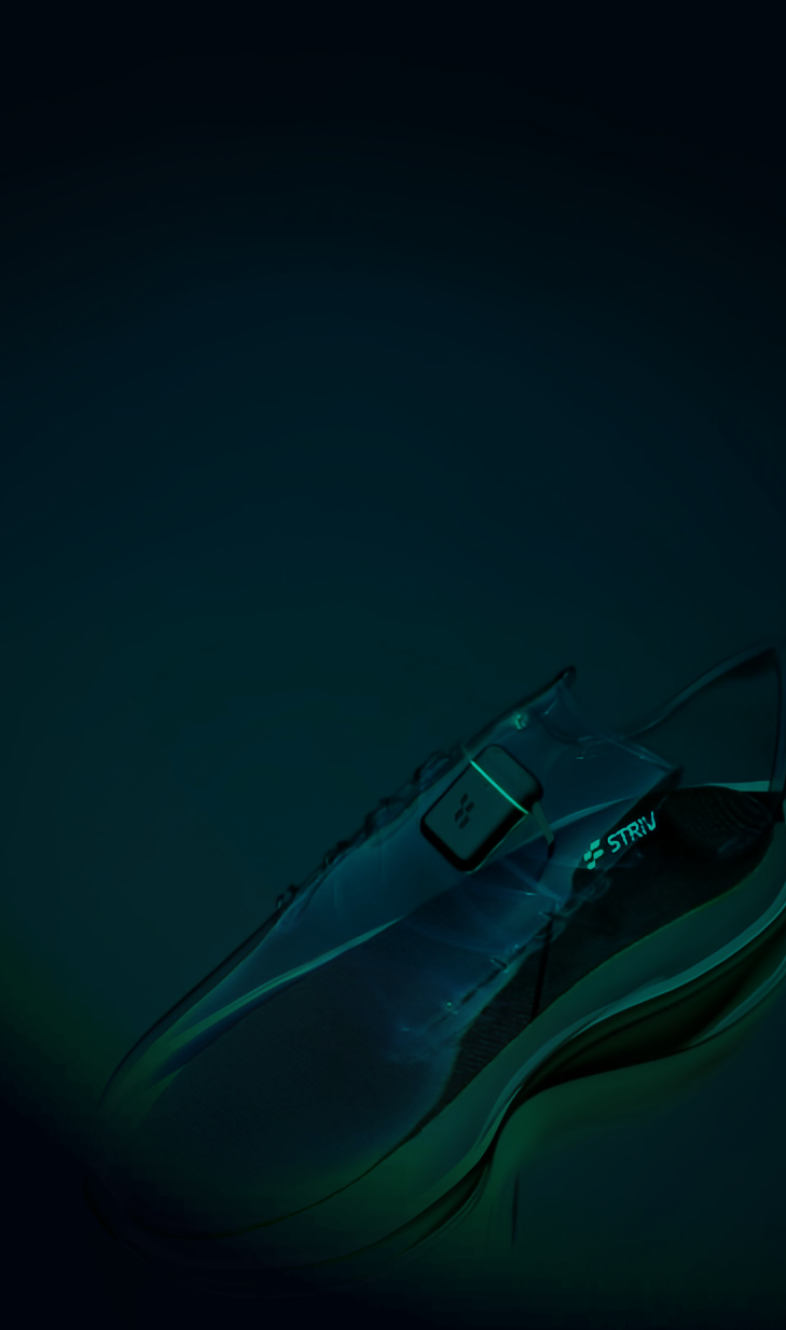
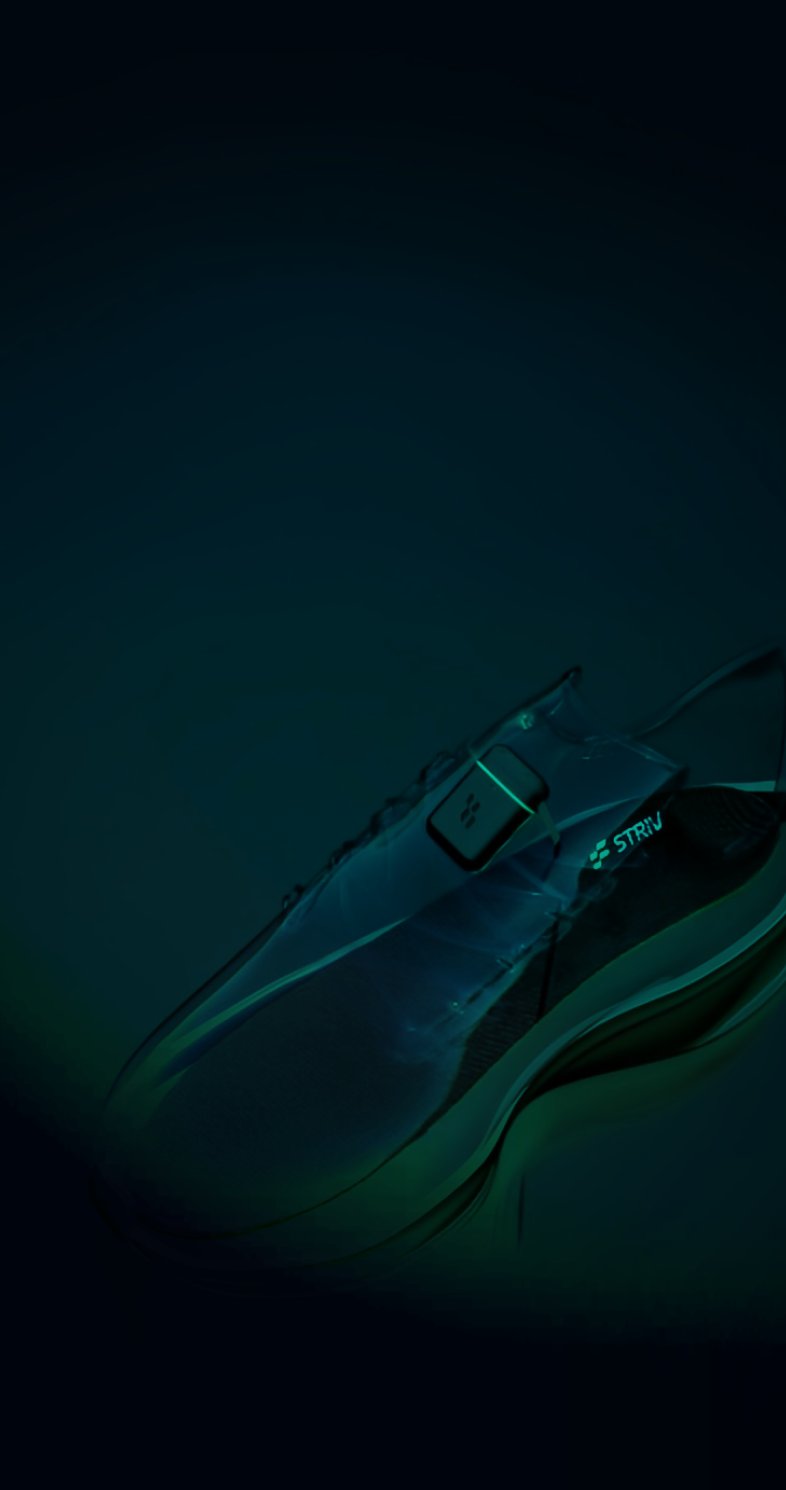
small updates

diff --git a/index.html b/index.html
@@ -472,13 +472,13 @@
         <div class="relative">
             <!-- <img class="aspect-[0.95] sm:aspect-[1.8] sm:object-fill object-cover " src="./assets/section-0-bg.png"> -->
 
-            <img class="aspect-[0.7] sm:hidden object-cover" src="./assets/section-0-bg-phone.png" alt="Phone Section 0 Background Image">
+            <img class="aspect-[0.48] sm:hidden object-cover" src="./assets/section-0-bg-phone.png" alt="Phone Section 0 Background Image">
             <img class="hidden sm:block sm:aspect-[1.8] sm:object-fill object-cover" src="./assets/section-0-bg.png" alt="Computer section 0 Background Image">
 
             <div class="left-8 sm:left-[4.4%] top-[6.1%] right-0 absolute">
                 <div class="flex flex-row sm:h-16 items-center">
-                    <img src="./assets/logo.svg" class="h-[15px] aspect-[1.25] sm:h-[27px]">
-                    <img src="./assets/striv.svg" class="h-[12px] aspect-[3.72] ml-2 sm:h-[22px]">
+                    <img src="./assets/logo.svg" class="h-[27px] aspect-[1.25] sm:h-[27px]">
+                    <img src="./assets/striv.svg" class="h-[22px] aspect-[3.72] ml-2 sm:h-[22px]">
                 </div>
                 <div class="mt-[30px] sm:mt-[7.5%] flex flex-col items-start">
                     <p class="text-20-lexend pr-20 pb-4 text-white sm:text-[34px]">Get <span class="text-color-green font-medium">Olympian-Level</span> coaching with every step</p>
